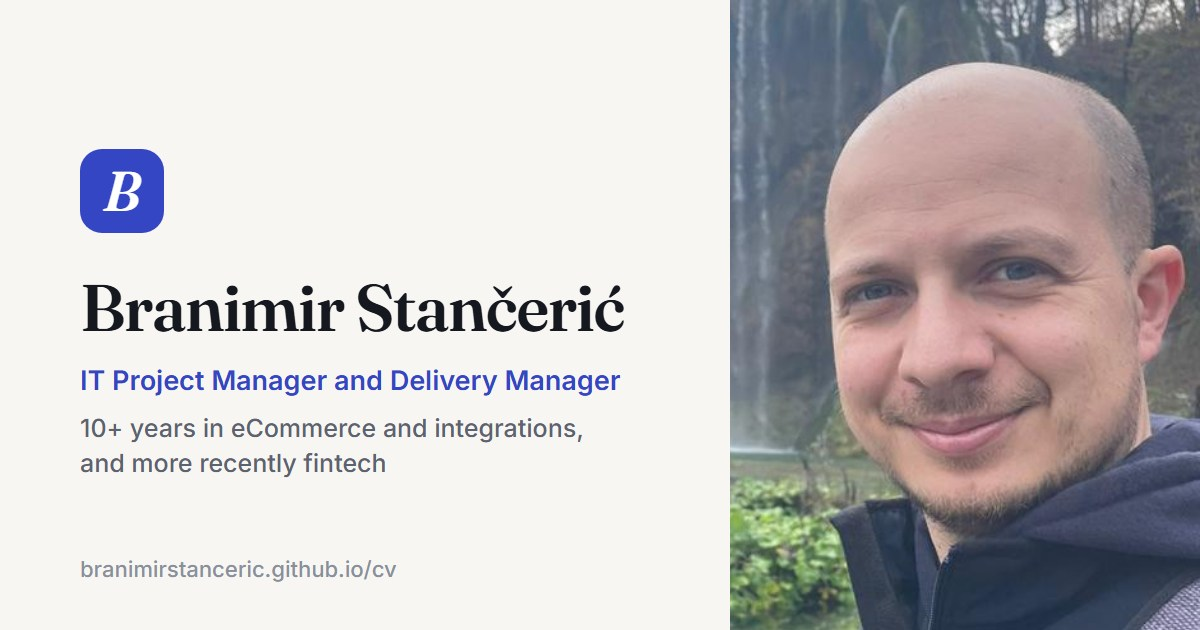
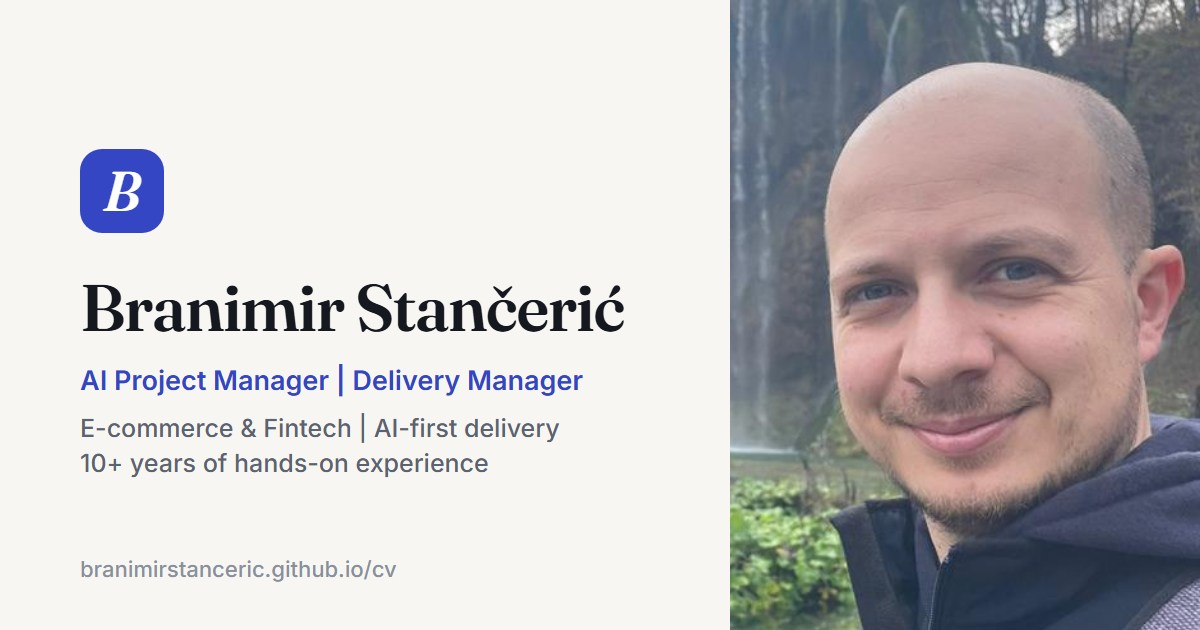
Present the site AI-first with the new title

Changed region(s): [[0.0617, 0.573, 0.5242, 0.6333], [0.0617, 0.6635, 0.4933, 0.6937], [0.0617, 0.7238, 0.4008, 0.754]]

diff --git a/index.html b/index.html
@@ -3,16 +3,16 @@
 <head>
   <meta charset="utf-8" />
   <meta name="viewport" content="width=device-width, initial-scale=1" />
-  <title>Branimir Stančerić</title>
-  <meta name="description" content="Branimir Stančerić, IT Project Manager and Delivery Manager focused on eCommerce, integrations and fintech." />
-  <meta property="og:title" content="Branimir Stančerić | IT Project Manager and Delivery Manager" />
+  <title>Branimir Stančerić | AI Project Manager</title>
+  <meta name="description" content="Branimir Stančerić, AI Project Manager and Delivery Manager in eCommerce and fintech, working AI-first." />
+  <meta property="og:title" content="Branimir Stančerić | AI Project Manager | Delivery Manager" />
   <meta property="og:description" content="Projects in eCommerce delivery, integrations, platform migrations and fintech." />
   <meta property="og:type" content="website" />
   <meta property="og:url" content="https://branimirstanceric.github.io/cv/" />
   <meta property="og:image" content="https://branimirstanceric.github.io/cv/assets/og-card.jpg" />
   <meta property="og:image:width" content="1200" />
   <meta property="og:image:height" content="630" />
-  <meta property="og:image:alt" content="Branimir Stančerić, IT Project Manager and Delivery Manager" />
+  <meta property="og:image:alt" content="Branimir Stančerić, AI Project Manager and Delivery Manager" />
   <meta name="twitter:card" content="summary_large_image" />
   <link rel="icon" type="image/png" sizes="64x64" href="favicon.png" />
   <link rel="apple-touch-icon" href="apple-touch-icon.png" />
@@ -31,7 +31,7 @@
   <link rel="preconnect" href="https://fonts.gstatic.com" crossorigin />
   <link href="https://fonts.googleapis.com/css2?family=Fraunces:ital,opsz,wght@0,9..144,500;0,9..144,600;1,9..144,600&family=Inter:wght@400;500;600;700&display=swap" rel="stylesheet" />
   <!-- Bump ?v= whenever style.css or common.js changes, so browsers don't mix old and new files -->
-  <link rel="stylesheet" href="style.css?v=27" />
+  <link rel="stylesheet" href="style.css?v=28" />
 </head>
 
 <body>
@@ -79,7 +79,8 @@
       <div class="container hero-content">
         <!-- On phones only this part sits on the photo; hero-details moves below it on the plain background -->
         <div class="hero-lead">
-          <div class="kicker"><span class="dot"></span><span data-field="status_line">IT Project Manager and Delivery Manager</span></div>
+          <!-- Each part of the title stays on one line; on narrow screens the title wraps only after a "|" -->
+          <div class="kicker"><span class="dot"></span><span class="kicker-text" id="status-line"><span>AI Project Manager |</span> <span>Delivery Manager |</span> <span>E-commerce &amp; Fintech |</span> <span>AI-first delivery</span></span></div>
           <h1 class="hero-title" id="hero-title">Hi, I'm Branimir!</h1>
         </div>
         <div class="hero-details">
@@ -104,7 +105,12 @@
             <h2 class="section-title">Capabilities</h2>
           </div>
         </div>
-        <div class="caps" id="capability-list"></div>
+        <div class="caps" id="capability-list">
+          <div class="cap"><div class="cap-num">01</div><div><h3>AI-First Delivery</h3><p>I work AI-first. I set up and run scheduled AI agents for daily work summaries and follow-up reminders, and use AI for meeting minutes, follow-up emails, searching Jira and Confluence, and creating and updating tickets and pages. I review all AI output before it goes out. I also built this website with Claude Code.</p></div></div>
+          <div class="cap"><div class="cap-num">02</div><div><h3>Multi-Market Delivery</h3><p>Worked across CEE/SEE markets: a five-market webshop migration, a Slovenian webshop under EU VAT rules, and readiness for a regional fintech expansion under central bank and financial regulation.</p></div></div>
+          <div class="cap"><div class="cap-num">03</div><div><h3>Stakeholder &amp; Client Management</h3><p>Managing client expectations and maintaining transparent communication between business and technical teams. Experienced in facilitating workshops, sprint reviews, and steering meetings to align deliverables with business goals.</p></div></div>
+          <div class="cap"><div class="cap-num">04</div><div><h3>Agile Cross-Functional Delivery</h3><p>Apply Scrum and Kanban to plan sprints, manage backlogs, and coordinate development teams and external vendors through testing and release, with Jira dashboards and JQL filters for status meetings and client reporting.</p></div></div>
+        </div>
       </div>
     </section>
 
@@ -130,7 +136,7 @@
     <div class="container">Copyright © <span id="year">2026</span> <span data-field="name">Branimir Stančerić</span>. All rights reserved.</div>
   </footer>
 
-  <script src="common.js?v=27"></script>
+  <script src="common.js?v=28"></script>
   <script>
     (function(){
       const { el, asset, list, load, fillFields, contactButtons, showError } = window.Site;
@@ -149,6 +155,17 @@
         showHeroPhoto(asset(p.hero_background) || 'assets/hero.jpg');
 
         if(p.cv_file) document.getElementById('cv-link').setAttribute('href', asset(p.cv_file));
+
+        // Title above the headline: each "|"-separated part is kept on one line
+        const parts = (p.status_line || '').split('|').map(s => s.trim()).filter(Boolean);
+        if(parts.length){
+          const line = [];
+          parts.forEach((part, i) => {
+            if(i) line.push(' ');
+            line.push(el('span', {}, i < parts.length - 1 ? part + ' |' : part));
+          });
+          document.getElementById('status-line').replaceChildren(...line);
+        }
 
         // Hero title with the highlighted phrase in accent colour
         const title = document.getElementById('hero-title');
@@ -176,7 +193,7 @@
       }
 
       function renderSkills(s){
-        document.getElementById('capability-list').append(
+        document.getElementById('capability-list').replaceChildren(
           ...list(s.capabilities).map((c, i) => el('div', { class: 'cap' },
             el('div', { class: 'cap-num' }, String(i + 1).padStart(2, '0')),
             el('div', {}, el('h3', {}, c.title), el('p', {}, c.text))

diff --git a/case.html b/case.html
@@ -4,12 +4,12 @@
   <meta charset="utf-8" />
   <meta name="viewport" content="width=device-width, initial-scale=1" />
   <title>Branimir Stančerić</title>
-  <meta name="description" content="A project by Branimir Stančerić, IT Project Manager and Delivery Manager." />
+  <meta name="description" content="A project by Branimir Stančerić, AI Project Manager and Delivery Manager." />
   <meta property="og:type" content="website" />
   <meta property="og:image" content="https://branimirstanceric.github.io/cv/assets/og-card.jpg" />
   <meta property="og:image:width" content="1200" />
   <meta property="og:image:height" content="630" />
-  <meta property="og:image:alt" content="Branimir Stančerić, IT Project Manager and Delivery Manager" />
+  <meta property="og:image:alt" content="Branimir Stančerić, AI Project Manager and Delivery Manager" />
   <meta name="twitter:card" content="summary_large_image" />
   <link rel="icon" type="image/png" sizes="64x64" href="favicon.png" />
   <link rel="apple-touch-icon" href="apple-touch-icon.png" />
@@ -28,7 +28,7 @@
   <link rel="preconnect" href="https://fonts.gstatic.com" crossorigin />
   <link href="https://fonts.googleapis.com/css2?family=Fraunces:ital,opsz,wght@0,9..144,500;0,9..144,600;1,9..144,600&family=Inter:wght@400;500;600;700&display=swap" rel="stylesheet" />
   <!-- Bump ?v= whenever style.css or common.js changes, so browsers don't mix old and new files -->
-  <link rel="stylesheet" href="style.css?v=27" />
+  <link rel="stylesheet" href="style.css?v=28" />
 </head>
 
 <body>
@@ -79,7 +79,7 @@
     <div class="container">Copyright © <span id="year">2026</span> <span data-field="name">Branimir Stančerić</span>. All rights reserved.</div>
   </footer>
 
-  <script src="common.js?v=27"></script>
+  <script src="common.js?v=28"></script>
   <script>
     (function(){
       const { el, icon, ICONS, list, statFor, withJobLogos, caseId, caseUrl, caseMeta, load, fillFields, contactButtons, showError, asset } = window.Site;
@@ -115,6 +115,7 @@
         const stat = statFor(c);
 
         if(c.summary) document.querySelector('meta[name="description"]').setAttribute('content', c.summary);
+        document.title = c.title + ' | Branimir Stančerić';
 
         const head = el('header', { class: 'cs-head' },
           caseMeta(c),

diff --git a/work.html b/work.html
@@ -3,7 +3,7 @@
 <head>
   <meta charset="utf-8" />
   <meta name="viewport" content="width=device-width, initial-scale=1" />
-  <title>Branimir Stančerić</title>
+  <title>Work | Branimir Stančerić, AI Project Manager</title>
   <meta name="description" content="Work by Branimir Stančerić: eCommerce delivery, integrations, platform migrations and fintech." />
   <meta property="og:title" content="Work | Branimir Stančerić" />
   <meta property="og:description" content="Projects in eCommerce delivery, integrations, platform migrations and fintech." />
@@ -12,7 +12,7 @@
   <meta property="og:image" content="https://branimirstanceric.github.io/cv/assets/og-card.jpg" />
   <meta property="og:image:width" content="1200" />
   <meta property="og:image:height" content="630" />
-  <meta property="og:image:alt" content="Branimir Stančerić, IT Project Manager and Delivery Manager" />
+  <meta property="og:image:alt" content="Branimir Stančerić, AI Project Manager and Delivery Manager" />
   <meta name="twitter:card" content="summary_large_image" />
   <link rel="icon" type="image/png" sizes="64x64" href="favicon.png" />
   <link rel="apple-touch-icon" href="apple-touch-icon.png" />
@@ -31,7 +31,7 @@
   <link rel="preconnect" href="https://fonts.gstatic.com" crossorigin />
   <link href="https://fonts.googleapis.com/css2?family=Fraunces:ital,opsz,wght@0,9..144,500;0,9..144,600;1,9..144,600&family=Inter:wght@400;500;600;700&display=swap" rel="stylesheet" />
   <!-- Bump ?v= whenever style.css or common.js changes, so browsers don't mix old and new files -->
-  <link rel="stylesheet" href="style.css?v=27" />
+  <link rel="stylesheet" href="style.css?v=28" />
 </head>
 
 <body>
@@ -127,7 +127,7 @@
     <div class="container">Copyright © <span id="year">2026</span> <span data-field="name">Branimir Stančerić</span>. All rights reserved.</div>
   </footer>
 
-  <script src="common.js?v=27"></script>
+  <script src="common.js?v=28"></script>
   <script>
     (function(){
       const { el, asset, list, withJobLogos, caseCard, caseRow, load, fillFields, contactButtons, showError } = window.Site;

diff --git a/style.css b/style.css
@@ -317,12 +317,17 @@ button{ font: inherit; color: inherit; }
 .kicker{
   display: inline-flex;
   align-items: center;
+  align-items: flex-start;
   gap: 10px;
   font-size: 1.05rem;
   font-weight: 500;
   color: var(--muted);
   margin-bottom: 18px;
 }
+/* The title's parts never break inside; a long title wraps only between them (after a "|") */
+.kicker-text{ text-wrap: balance; }
+.kicker-text span{ white-space: nowrap; }
+.kicker .dot{ flex: none; margin-top: calc(0.8em - 4px); }
 .dot{
   width: 8px;
   height: 8px;

diff --git a/README.md b/README.md
@@ -2,7 +2,7 @@
 
 My personal CV and portfolio site: **https://branimirstanceric.github.io/cv/**
 
-I'm an IT Project Manager and Delivery Manager with 10+ years in eCommerce and integrations, and more recently fintech. The site shows the projects I've worked on, what I did on each one, and the results.
+I'm an AI Project Manager and Delivery Manager with 10+ years in eCommerce and integrations, and more recently fintech, and I work AI-first. The site shows the projects I've worked on, what I did on each one, and the results.
 
 ## What's on the site
 
